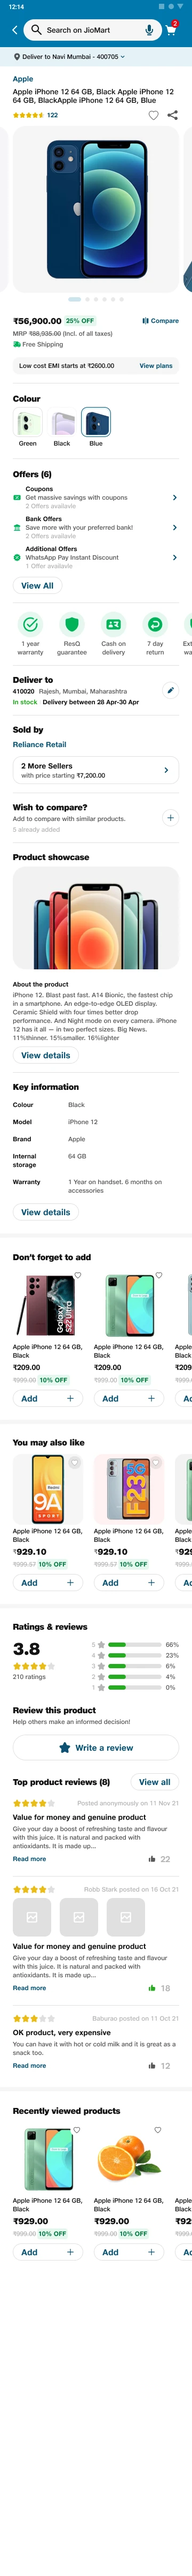
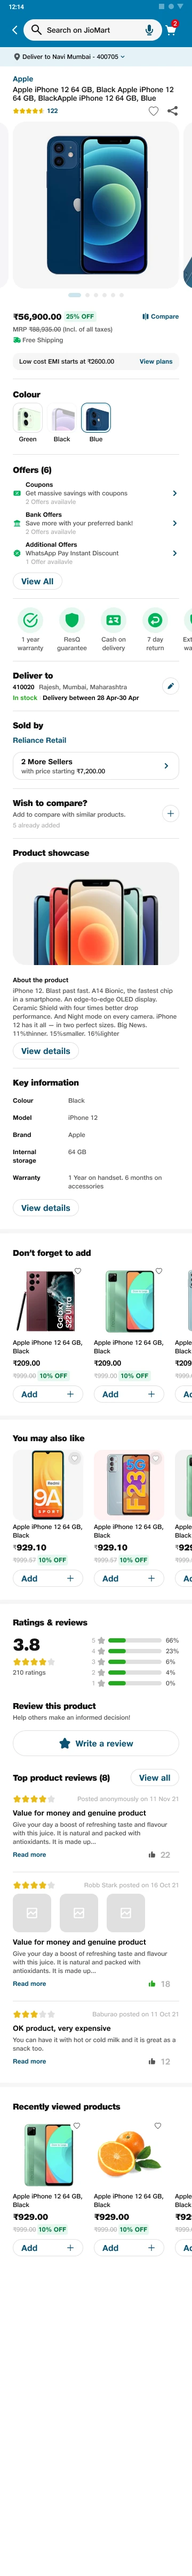
Deck + case study: PDP screens re-exported from the latest Figma
Claude-Session: https://claude.ai/code/session_01Hk7si3owCVDs4cH4zgK8o7

diff --git a/js/jiomart-deck-slides.js b/js/jiomart-deck-slides.js
@@ -579,7 +579,7 @@ window.DECK = {
         { v: "old", label: "Before", img: "enhance-problem-pdp-nobar.png", cta: "enhance-before-pdp-bar.png", n: "Long page, key details buried" },
         { v: "new", label: "Grocery", img: "new/pdp-grocery.webp", h: 4098, cta: "enhance-v1-pdp-cta.png?v=2", n: "Brand, rating, price and every pack size up front" },
         { v: "elec", label: "Electronics", img: "new/pdp-electronics.webp", h: 4098, n: "EMI and full specs open in a sheet, so the page stays short",
-          hot: [ { x: 252, y: 664, w: 84, h: 30, open: "new/pdp-emi.webp", label: "EMI" }, { x: 24, y: 1949, w: 126, h: 34, open: "new/pdp-details.webp", label: "Details" } ] },
+          hot: [ { x: 252, y: 656, w: 84, h: 30, open: "new/pdp-emi.webp", label: "EMI" }, { x: 24, y: 1941, w: 126, h: 34, open: "new/pdp-details.webp", label: "Details" } ] },
         { v: "fash", label: "Fashion", img: "new/pdp-fashion.webp", h: 4098, n: "Brand first, then the name; colour and size before the fold" },
         { v: "beauty", label: "Beauty", img: "new/pdp-beauty.webp", h: 4098, n: "Shades as swatches, offers grouped, reviews with photos" }
       ],
@@ -767,8 +767,8 @@ window.DECK = {
           why: "Brand, rating, price and every pack size before the fold.", proof: "PDP rated S3 critical in the {{audit|audit}}; brand hidden on 4 of 4 verticals." },
         { k: "Electronics product", img: "new/pdp-electronics.webp", h: 4098,
           hot: [
-            { x: 252, y: 664, w: 84, h: 30, open: "new/pdp-emi.webp", label: "EMI plans" },
-            { x: 24, y: 1949, w: 126, h: 34, open: "new/pdp-details.webp", label: "Details" }
+            { x: 252, y: 656, w: 84, h: 30, open: "new/pdp-emi.webp", label: "EMI plans" },
+            { x: 24, y: 1941, w: 126, h: 34, open: "new/pdp-details.webp", label: "Details" }
           ],
           why: "EMI and full specs open in a sheet, so the page stays short.", proof: "EMI didn't look tappable on 3 of 4 audited verticals." }
       ],

diff --git a/jiomart-deck.html b/jiomart-deck.html
@@ -58,7 +58,7 @@
       </aside>
     </div>
 
-    <script src="js/jiomart-deck-slides.js?v=191"></script>
+    <script src="js/jiomart-deck-slides.js?v=192"></script>
     <script src="js/jiomart-deck.js?v=164"></script>
     <script src="./js/gate.js?v=3"></script>
   </body>
